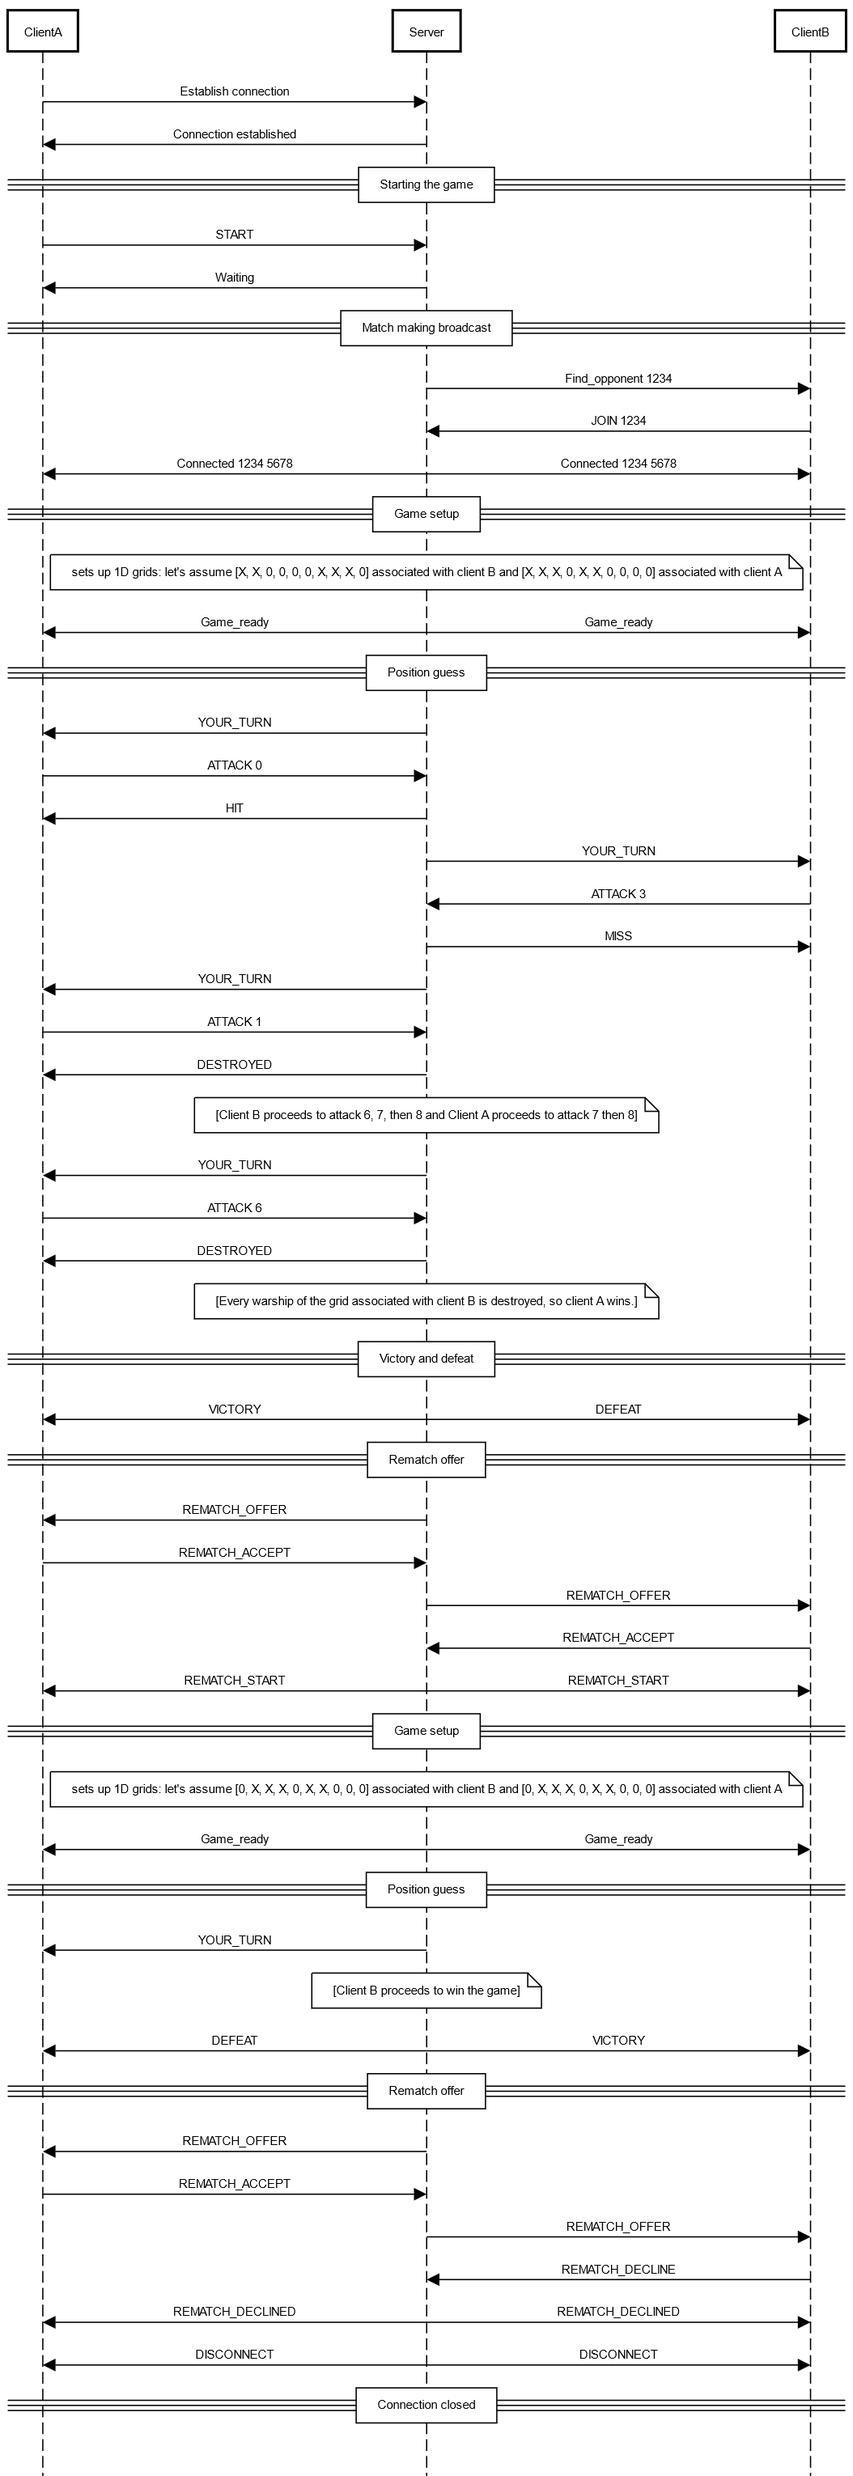
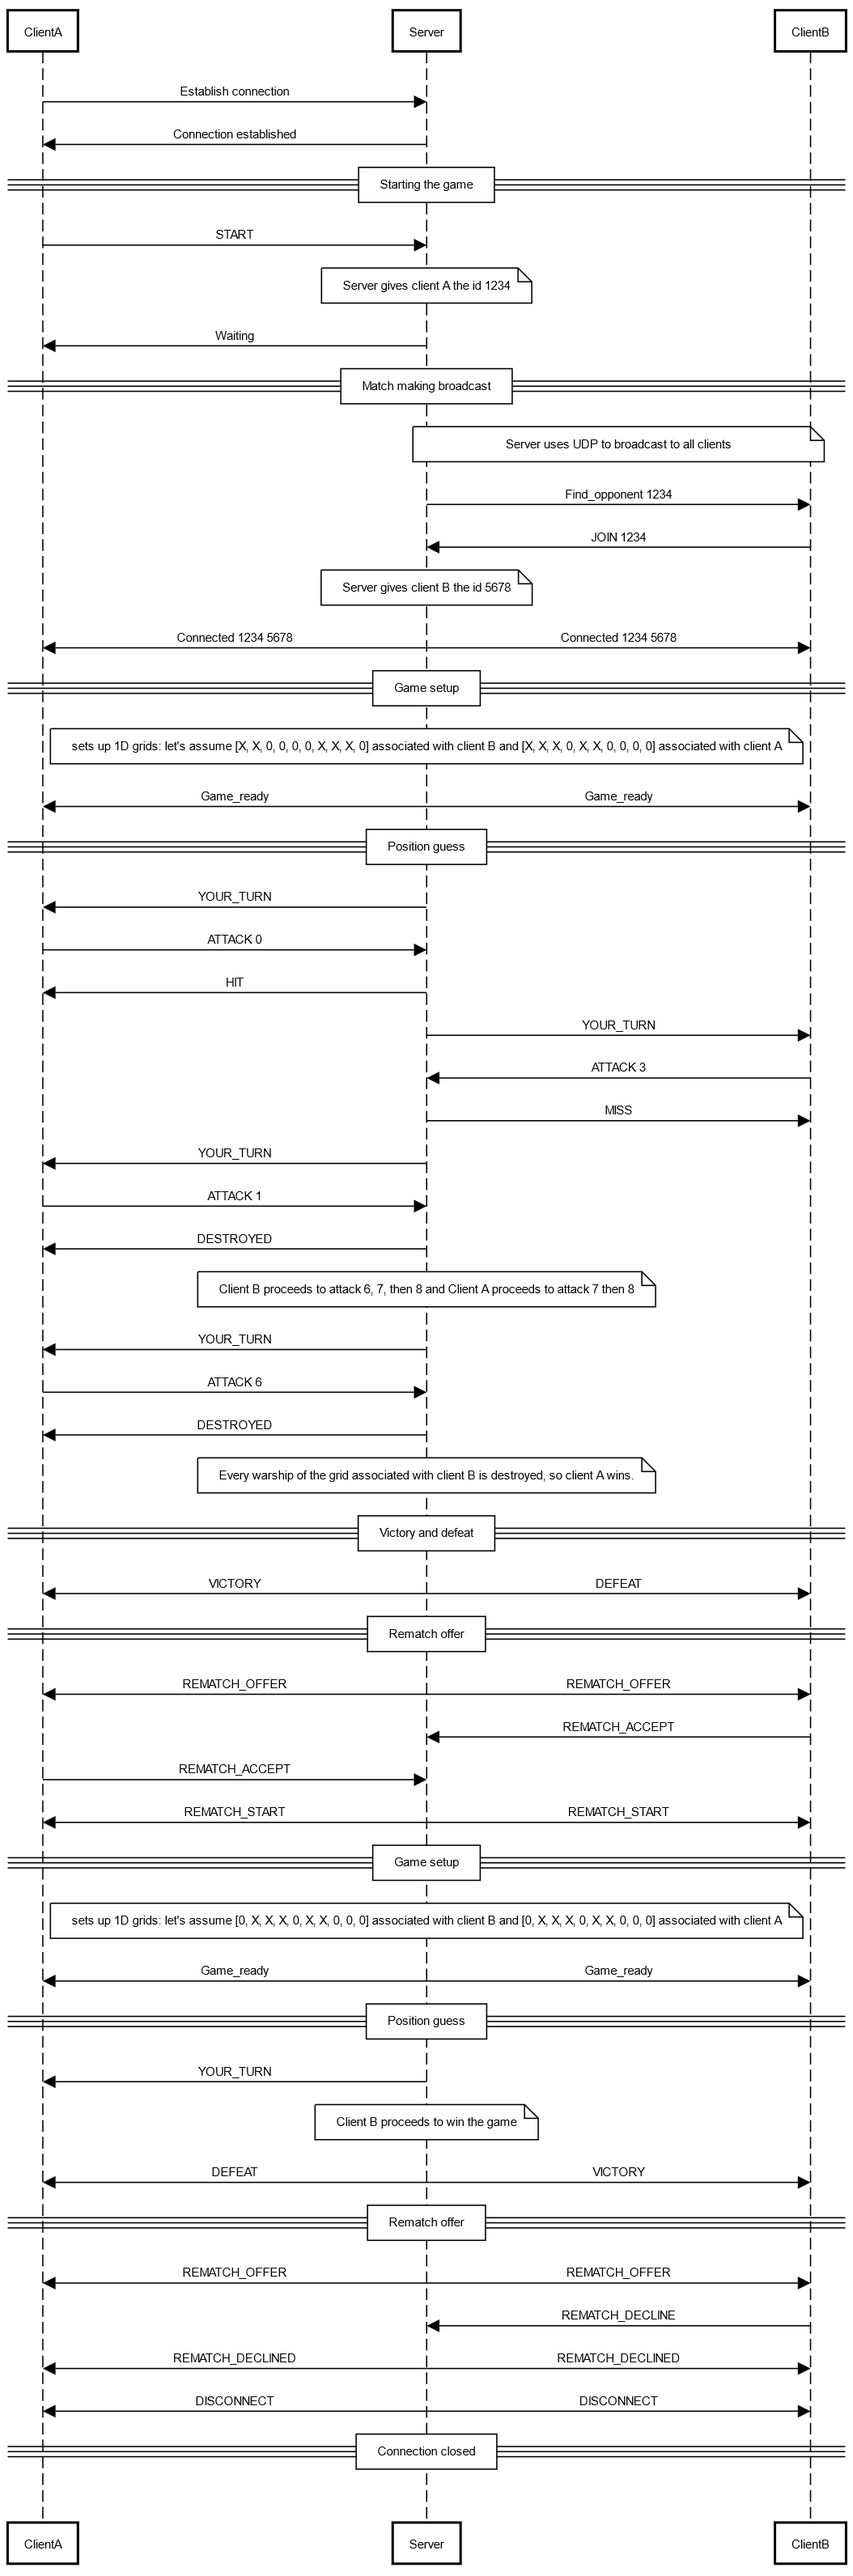
Corrected diagrams

diff --git a/src/main/java/ch/heigvd/dai/Battleship_AP.md b/src/main/java/ch/heigvd/dai/Battleship_AP.md
@@ -15,15 +15,11 @@ Every message must be encoded in UTF-8 and delimited by a newline character (\n)
 ### Game Setup and Matchmaking
 The client A that wants to start a Battleship game sends a message to the server.
 
-The server checks if client A is already engaged in a game:
-- If yes, the server sends an error message to client A.
-- If no, the server accepts the request, and broadcasts a match-making request over UDP to find an opponent for the client A.
+The server accepts the request, and broadcasts a match-making request over UDP to find an opponent for the client A.
 
 Upon receiving the match-making broadcast, Client B responds to the server, indicating they want to join the game with client A.
-The server checks if the client B has already started a game.
 
- - If so, the server sends an error message to the client. 
- - If not, the server accepts the request, and initiates a TCP connection with both client A and client B.
+The server accepts the request, and initiates a TCP connection with both client A and client B.
 
 Once the two connections are established, the server generates two warship-filled 1D grids associated with each of the clients.
 
@@ -33,6 +29,8 @@ The server then prompts Client A to send their first attack position, represente
 One turn proceeds as follows:
 
 #### Client's attack
+The server prompts Client A to send an attack position.
+
 The client A sends the server a number.
 
 The server checks if this number has already been sent by client A. 
@@ -56,11 +54,10 @@ The game continues in turn-by-turn format until one of the clients targets and d
 When a client destroys all warships on the opponent’s grid, the server sends a victory message to the winning client and a defeat message to the losing client.
 
 #### Rematch offer
-The server asks the winning client if they would like to play a rematch:
-- If the winning client accepts, the server sends a rematch offer to the losing client. 
-  - If the losing client accepts, the server generates new grids and starts a new game.
-  - If the losing client declines, the server closes the connection with both clients, informing the winning client that the rematch was declined.
-- If the winning client declines, the server closes the connection with both clients.
+The server asks both clients if they would like to play a rematch:
+- If both of the clients accepts to rematch, the server generates new grids and starts a new game. 
+- If at least one of the clients declines, the server closes the connection with both clients.
+
 ## Section 3 - Messages
 
 ### Starting a Game
@@ -93,8 +90,6 @@ JOIN <client_A_id>
 ```
 #### Server Response
 - `CONNECTED <client_A_id> <client_B_id>`: game connection is successfully established between client A and client B.
-- `ERROR <code>`: an error occurred. The error codes are:
-  - 1 : a game is already in session for this client.
 
 ### Game Setup
 Once both connections are established, the server sets up 1D grids and sends confirmation messages to both clients.
@@ -103,7 +98,13 @@ Once both connections are established, the server sets up 1D grids and sends con
 ```text
 GAME_READY
 ```
+### Turn Notification
+The server informs each client when it’s their turn to play.
 
+#### Message
+```text
+YOUR_TURN
+```
 ### Position Guess (One turn)
 The client sends a position guess, represented by a number between 0 and 9, to the server.
 
@@ -124,7 +125,7 @@ ATTACK <position>
 In case of an error, the server asks the client to try again, until a valid input is given.
 
 ### Turn Notification 
-The server informs each client when it’s their turn to play.
+The server informs the other client when it’s their turn to play.
 
 #### Message
 ```text
@@ -144,33 +145,22 @@ DEFEAT
 ```
 
 ### Rematch offer
-After the game ends, the server asks the winning client if they would like a rematch.
+After the game ends, the server asks both clients if they would like a rematch.
 
-#### Server message to winning client
+#### Server message to clients
 ```text
 REMATCH_OFFER
 ```
-#### Winning client response
+#### Client response
 - `REMATCH_ACCEPT`: the client accepts the rematch offer.
 - `REMATCH_DECLINE`: the client declines the rematch offer.
-
-### Rematch confirmation with losing client
-If the winning client accepts the rematch, the server asks the losing client if they want a rematch.
-
-#### Server message to losing client
-```text
-REMATCH_OFFER
-```
-#### Losing client response
-- `REMATCH_ACCEPT`: the client accepts the rematch.
-- `REMATCH_DECLINE`: the client declines the rematch.
 
 ### Rematch outcome
 The server informs each client about the outcome of the rematch offer.
 
 #### Messages
-- `REMATCH_START`: a new game session will begin.
-- `REMATCH_DECLINED`: the opponent declined the rematch, ending the session.
+- `REMATCH_START`: both clients accept to rematch. A new game session begins.
+- `REMATCH_DECLINED`: as least one of the client declines the rematch offer. The session ends.
 
 ### Connection Close
 When the rematch is declined, the server informs each client and closes the connection.
@@ -180,10 +170,10 @@ When the rematch is declined, the server informs each client and closes the conn
 
 ## Section 4 - Examples
 
-#### Functional example
+#### Example with no error printed by the server
 ![functional](./images/Functional_example.png)
 
 #### Client A enters twice the same position
-![error](./images/ClientA%20enters%20twice%20same%20pos.png)
+![error](./images/Error_same_pos.png)
 
 #### 
